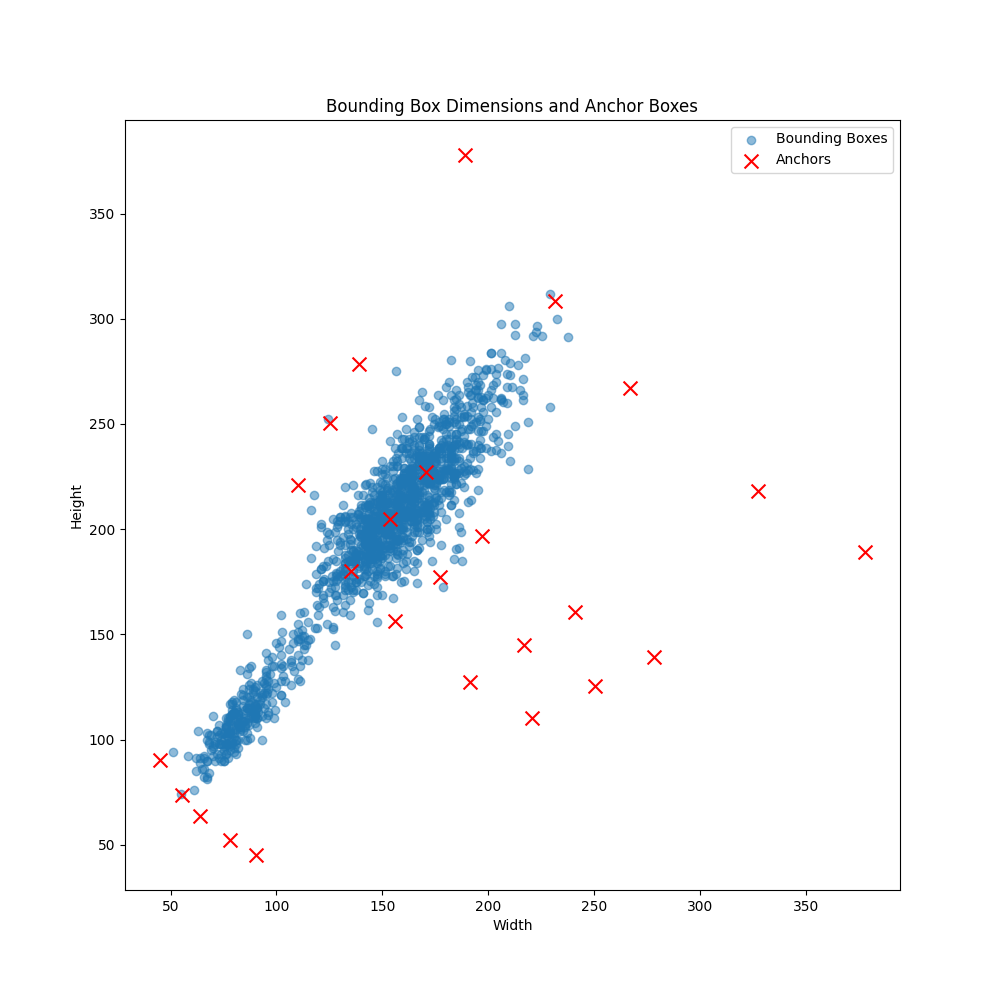
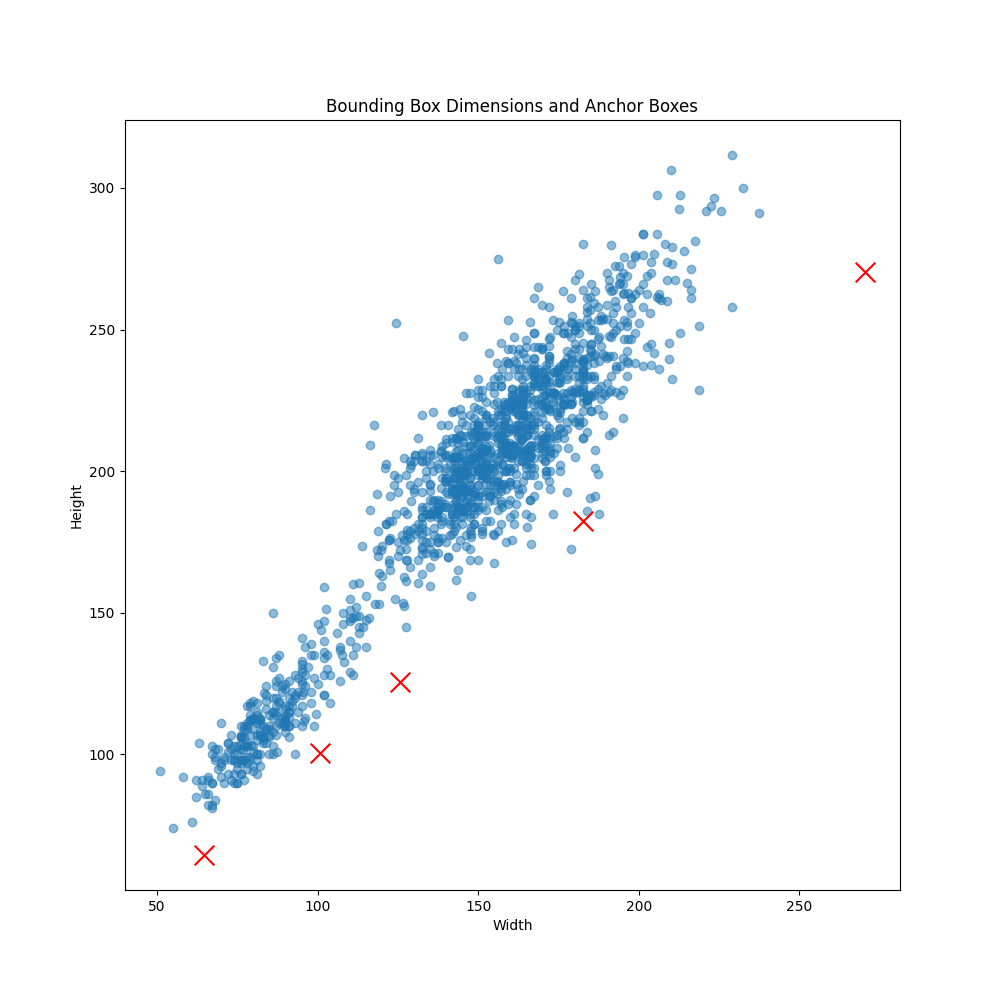
added boxes derived from labelme segmentations

diff --git a/configs/eric/calculate_anchors.py b/configs/eric/calculate_anchors.py
@@ -43,63 +43,23 @@ def extract_bbox_dimensions(annotations):
         heights.append(bbox[3])
     return np.array(widths), np.array(heights)
 
-def calculate_scales(widths, heights, num_scales=5):
-    sizes = np.sqrt(widths * heights)
-    min_size, max_size = np.percentile(sizes, [5, 95])  # Use 5th and 95th percentiles to avoid outliers
-    return np.exp(np.linspace(np.log(min_size), np.log(max_size), num_scales))
-
-def calculate_aspect_ratios(widths, heights, num_ratios=5):
-    ratios = widths / heights
-    log_ratios = np.log(ratios)
+def calculate_aspect_ratios(widths, heights, num_ratios=5, coverage_percent=90):
+    slope, intercept = calculate_line_of_best_fit(widths, heights)
+    central_ratio = slope
     
-    # Remove outliers
-    q1, q3 = np.percentile(log_ratios, [25, 75])
-    iqr = q3 - q1
-    lower_bound = q1 - 1.5 * iqr
-    upper_bound = q3 + 1.5 * iqr
-    filtered_log_ratios = log_ratios[(log_ratios >= lower_bound) & (log_ratios <= upper_bound)]
+    distances = np.abs(heights - (slope * widths + intercept)) / np.sqrt(1 + slope**2)
+    max_distance = np.percentile(distances, coverage_percent)
     
-    # Use K-means clustering to find representative ratios
-    kmeans = KMeans(n_clusters=num_ratios).fit(filtered_log_ratios.reshape(-1, 1))
-    centers = np.exp(kmeans.cluster_centers_.flatten())
+    min_ratio = central_ratio - max_distance / np.mean(widths)
+    max_ratio = central_ratio + max_distance / np.mean(widths)
     
-    # Ensure 1:1 ratio is included
-    if 1.0 not in centers:
-        centers = np.sort(np.append(centers, 1.0))
-        if len(centers) > num_ratios:
-            # Remove the ratio farthest from 1:1
-            distances = np.abs(np.log(centers))
-            centers = centers[np.argsort(distances)[:num_ratios]]
-    
-    return np.sort(centers)
+    return np.linspace(min_ratio, max_ratio, num_ratios)
 
-def generate_anchor_boxes(scales, aspect_ratios):
-    anchors = []
-    for scale in scales:
-        for ratio in aspect_ratios:
-            w = scale * np.sqrt(ratio)
-            h = scale / np.sqrt(ratio)
-            anchors.append([w, h])
-    return np.array(anchors)
-
-def evaluate_anchor_coverage(anchors, gt_boxes, iou_threshold=0.5):
-    covered_boxes = 0
-    for gt_box in gt_boxes:
-        gt_w, gt_h = gt_box
-        ious = calculate_ious(anchors, np.array([[gt_w, gt_h]]))
-        if np.max(ious) > iou_threshold:
-            covered_boxes += 1
-    coverage = covered_boxes / len(gt_boxes)
-    return coverage
-
-def calculate_ious(anchors, gt_boxes):
-    # Calculate IoU between anchors and ground truth boxes
-    # This is a simplified version and assumes centered boxes
-    min_sizes = np.minimum(anchors[:, np.newaxis, :], gt_boxes[np.newaxis, :, :])
-    max_sizes = np.maximum(anchors[:, np.newaxis, :], gt_boxes[np.newaxis, :, :])
-    intersections = np.prod(np.maximum(0, min_sizes), axis=2)
-    unions = np.prod(anchors, axis=1)[:, np.newaxis] + np.prod(gt_boxes, axis=1) - intersections
-    return intersections / unions
+def calculate_anchor_boxes(widths, heights, num_sizes=5):
+    avg_sizes = (widths + heights) / 2
+    percentiles = np.linspace(0, 100, num_sizes)
+    anchor_sizes = np.percentile(avg_sizes, percentiles)
+    return np.column_stack((anchor_sizes, anchor_sizes))
 
 def calculate_line_of_best_fit(widths, heights):
     slope, intercept = np.polyfit(widths, heights, 1)
@@ -113,71 +73,82 @@ def process_file(json_path):
         print(f"Skipping file due to error: {json_path}")
         return None, None
     widths, heights = extract_bbox_dimensions(annotations)
-    return widths, heights
+    
+    anchor_boxes = calculate_anchor_boxes(widths, heights)
+    aspect_ratios = calculate_aspect_ratios(widths, heights)
+    
+    print("Anchor boxes:")
+    print(anchor_boxes)
+    print("Aspect ratios:")
+    print(aspect_ratios)
+    
+    return anchor_boxes, aspect_ratios, widths, heights
 
-def plot_anchor_coverage(gt_boxes, anchors, coverage, output_path):
+def calculate_final_anchors(results):
+    # Calculate final anchor boxes and aspect ratios from all results
+    all_widths = np.concatenate([r[0][:, 0] for r in results if r[0] is not None])
+    all_heights = np.concatenate([r[0][:, 1] for r in results if r[0] is not None])
+    all_ratios = np.concatenate([r[1] for r in results if r[1] is not None])
+    
+    final_boxes = calculate_anchor_boxes(all_widths, all_heights)
+    final_ratios = calculate_aspect_ratios(all_widths, all_heights)
+    
+    return final_boxes, final_ratios
+
+def plot_scatter(all_widths, all_heights, final_boxes, output_path):
+    # Create a scatter plot of bounding box dimensions and anchor boxes
     plt.figure(figsize=(10, 10))
-    plt.scatter(gt_boxes[:, 0], gt_boxes[:, 1], alpha=0.5, label='Ground Truth')
-    plt.scatter(anchors[:, 0], anchors[:, 1], color='red', s=50, marker='x', label='Anchors')
+    plt.scatter(all_widths, all_heights, alpha=0.5)
+    plt.scatter(final_boxes[:, 0], final_boxes[:, 1], color='red', s=200, marker='x')
     plt.xlabel('Width')
     plt.ylabel('Height')
-    plt.title(f'Bounding Box Dimensions and Anchor Boxes\nCoverage: {coverage:.2%}')
-    plt.legend()
+    plt.title('Bounding Box Dimensions and Anchor Boxes')
     plt.savefig(output_path)
-    print(f"Anchor coverage plot saved to {output_path}")
+    print(f"Scatter plot saved to {output_path}")
 
 def main():
-    parser = argparse.ArgumentParser(description='Calculate anchor boxes for Faster R-CNN')
-    parser.add_argument('--num_scales', type=int, default=5, help='Number of scales')
+    parser = argparse.ArgumentParser(description='Calculate anchor boxes and aspect ratios')
+    parser.add_argument('--output', choices=['anchors', 'plot'], default='plot',
+                        help='Output type: "anchors" for best anchor sizes or "plot" for scatter plot (default: plot)')
+    parser.add_argument('--num_sizes', type=int, default=5, help='Number of anchor sizes')
     parser.add_argument('--num_ratios', type=int, default=5, help='Number of aspect ratios')
+    parser.add_argument('--coverage_percent', type=float, default=90, help='Percentage of points to cover for aspect ratios')
     args = parser.parse_args()
 
     files = [
         '/Users/ewern/Desktop/code/MetronMind/data/cat-dataset/labelme_to_coco/train_coco_annotations.json',
         '/Users/ewern/Desktop/code/MetronMind/data/cat-dataset/COCO_2/val_Data_coco_format.json'
     ]
+    # files = [
+    #     '/Users/ewern/Desktop/code/MetronMind/data/cat-dataset/COCO_2/train_Data_coco_format.json',
+    #     '/Users/ewern/Desktop/code/MetronMind/data/cat-dataset/COCO_2/val_Data_coco_format.json'
+    # ]
     
+    results = []
     all_widths = []
     all_heights = []
     for file_path in files:
-        widths, heights = process_file(file_path)
-        if widths is not None and heights is not None:
-            all_widths.extend(widths)
-            all_heights.extend(heights)
+        result = process_file(file_path)
+        results.append(result[:2])  # Only append anchor_boxes and aspect_ratios
+        all_widths.extend(result[2])  # Append widths
+        all_heights.extend(result[3])  # Append heights
     
-    all_widths = np.array(all_widths)
-    all_heights = np.array(all_heights)
-    all_boxes = np.column_stack((all_widths, all_heights))
+    final_boxes, final_ratios = calculate_final_anchors(results)
     
-    scales = calculate_scales(all_widths, all_heights, args.num_scales)
-    aspect_ratios = calculate_aspect_ratios(all_widths, all_heights, args.num_ratios)
-    
-    anchors = generate_anchor_boxes(scales, aspect_ratios)
-    coverage = evaluate_anchor_coverage(anchors, all_boxes)
-    
-    print("\nScales:")
-    print(scales)
-    print("\nAspect Ratios:")
-    print(aspect_ratios)
-    print("\nAnchor Boxes (width, height):")
-    print(anchors)
-    print(f"\nAnchor Coverage: {coverage:.2%}")
-    
-    # Visualizations
-    output_dir = '/Users/ewern/Desktop/code/MetronMind/mmdetection/configs/eric/anchor_graphs'
-    os.makedirs(output_dir, exist_ok=True)
-    
-    # Aspect ratio histogram
-    plt.figure(figsize=(10, 5))
-    plt.hist(all_widths / all_heights, bins=50)
-    plt.title("Histogram of Aspect Ratios")
-    plt.xlabel("Aspect Ratio (width/height)")
-    plt.ylabel("Frequency")
-    plt.savefig(os.path.join(output_dir, 'aspect_ratio_histogram.png'))
-    plt.close()
-    
-    # Anchor coverage plot
-    plot_anchor_coverage(all_boxes, anchors, coverage, os.path.join(output_dir, 'anchor_coverage_plot.png'))
+    if args.output == 'anchors':
+        print("\nFinal anchor boxes (width, height):")
+        print(final_boxes)
+        print("\nFinal aspect ratios:")
+        print(final_ratios)
+        
+        print("\nRounded final anchor boxes (width, height):")
+        print(np.round(final_boxes).astype(int))
+        print("\nRounded final aspect ratios:")
+        print(np.round(final_ratios, 2))
+    elif args.output == 'plot':
+        output_path = '/Users/ewern/Desktop/code/MetronMind/mmdetection/configs/eric/anchor_graphs/anchor_scatter_plot.png'
+        os.makedirs(os.path.dirname(output_path), exist_ok=True)
+        plot_scatter(all_widths, all_heights, final_boxes, output_path)
 
 if __name__ == "__main__":
     main()